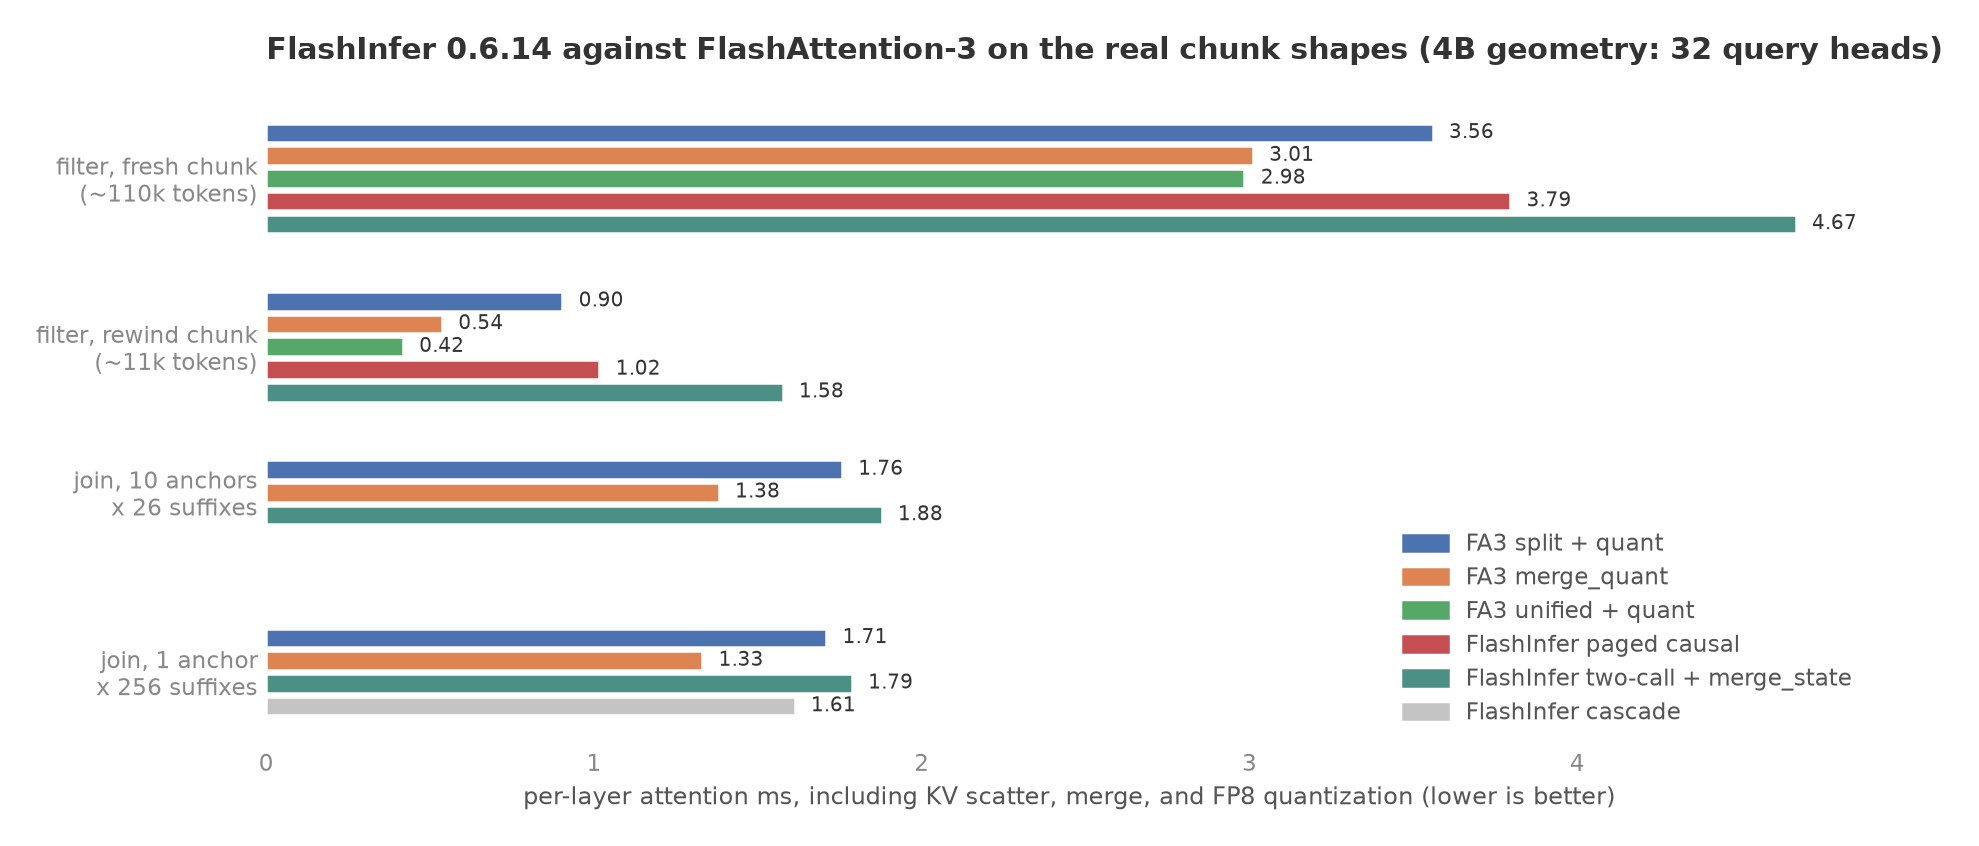
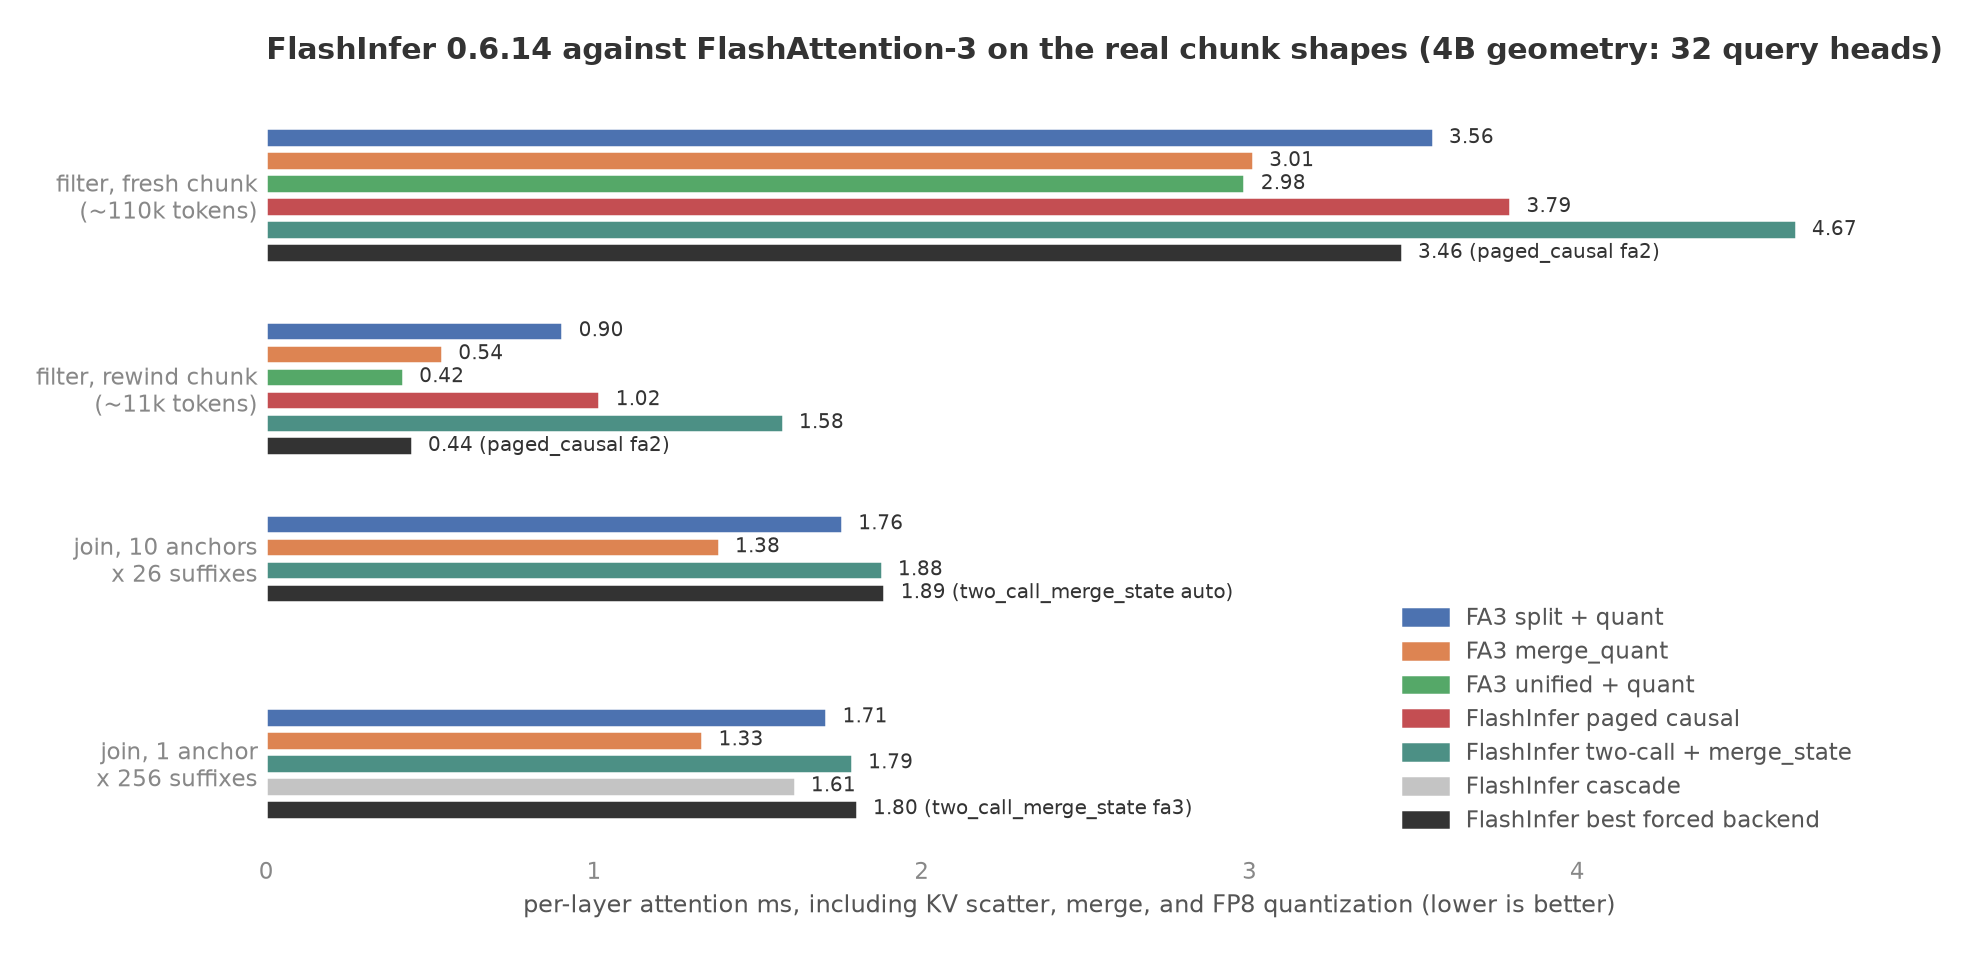
FlashInfer fairness pass, 4B geometry: best-tuned gaps 14% / 32%.
Measured against the prediction: forcing the fa2 backend cut the
filter gaps far more than predicted (fresh 27% -> 14%, rewind 2.4x
-> 14%) because FlashInfer's auto dispatch picks its FA3 template
where its FA2 template is faster on our filter chunks; joins moved
as predicted (hybrid isolates the 0.29 ms fusion share, their
kernel pair keeps an 11-16% gap). One hybrid entry lands within 5%
on fresh filter chunks but keeps our custom kernel and loses 44%
on rewind chunks, so the decision stands on tuned numbers. The
figure gains a best-forced-backend bar.

Claude-Session: https://claude.ai/code/session_01BnPpi2xQczZPNjqrAuqnJC

diff --git a/quail/reports/make_attention_plots.py b/quail/reports/make_attention_plots.py
@@ -245,6 +245,10 @@ def fig_accuracy(tag="", model_label="Qwen3 4B fp8"):
 
 def fig_flashinfer(tag="", geom_label="4B geometry: 32 query heads"):
     fi = load(f"flashinfer_bench{tag}.json")
+    try:
+        tuned = load(f"flashinfer_tuned{tag}.json")["shapes"]
+    except FileNotFoundError:
+        tuned = {}
     shapes = [
         ("filter_fresh", "filter, fresh chunk\n(~110k tokens)"),
         ("filter_cached", "filter, rewind chunk\n(~11k tokens)"),
@@ -260,14 +264,28 @@ def fig_flashinfer(tag="", geom_label="4B geometry: 32 query heads"):
         ("fi_two_call_merge_plus_quant",
          "FlashInfer two-call + merge_state", TEAL),
         ("fi_cascade_plus_quant", "FlashInfer cascade", GRAY),
+        ("fi_best_tuned", "FlashInfer best forced backend", DARK),
     ]
 
-    fig, ax = plt.subplots(figsize=(10.5, 4.6))
+    def best_tuned(skey):
+        # the fastest pure-FlashInfer variant across forced backends
+        row = tuned.get(skey)
+        if not row:
+            return None
+        pool = [(v, f"{grp} {be}")
+                for grp in ("paged_causal", "two_call_merge_state")
+                for be, v in row[grp].items()]
+        return min(pool) if pool else None
+
+    fig, ax = plt.subplots(figsize=(10.5, 5.2))
     bar_h = 0.15
     yticks, ylabels = [], []
     for si, (skey, slabel) in enumerate(shapes):
         row = fi["shapes"][skey]
         vals = {**row["fa3"], **row["flashinfer"]}
+        bt = best_tuned(skey)
+        if bt is not None:
+            vals["fi_best_tuned"] = bt[0]
         present = [(k, lab, c) for k, lab, c in variants if k in vals]
         base = si * (len(variants) + 1.4) * bar_h
         for vi, (k, lab, c) in enumerate(present):
@@ -275,7 +293,8 @@ def fig_flashinfer(tag="", geom_label="4B geometry: 32 query heads"):
             ypos = base + vi * bar_h
             ax.barh(ypos, v, height=bar_h * 0.82, color=c,
                     edgecolor="white")
-            ax.text(v + 0.05, ypos, f"{v:.2f}", va="center",
+            note = f" ({bt[1]})" if k == "fi_best_tuned" else ""
+            ax.text(v + 0.05, ypos, f"{v:.2f}{note}", va="center",
                     fontsize=8, color=DARK)
         yticks.append(base + (len(present) - 1) * bar_h / 2)
         ylabels.append(slabel)

diff --git a/quail/reports/2026-08-21-attention-paths.md b/quail/reports/2026-08-21-attention-paths.md
@@ -278,13 +278,74 @@ Per-layer milliseconds:
 | join 10 x 26-suffix groups | 1.38 (merge_quant) | - | 1.88 | not applicable |
 | join 1 anchor x 256 (fan-out) | 1.33 (merge_quant) | - | 1.79 | 1.61 |
 
-The issue's rule was: adopt off-the-shelf if within 5%. The closest
-FlashInfer result is 21% slower (cascade on the single-anchor
+The issue's rule was: adopt off-the-shelf if within 5%. At
+FlashInfer's default dispatch (`backend="auto"`, this table) the
+closest result was 21% slower (cascade on the single-anchor
 fan-out shape, and cascade cannot run multi-anchor chunks at all -
-its shared level must be shared by every query in the batch).
-FlashInfer's paged causal kernel is 27% slower than the single FA3
-call on the fresh filter chunk and 2.4x slower on the rewind chunk.
-Decision: stay on FA3 plus the one custom Triton merge kernel.
+its shared level must be shared by every query in the batch);
+paged causal was 27% slower than the single FA3 call on the fresh
+filter chunk and 2.4x slower on the rewind chunk. Because "auto"
+might not be FlashInfer's best configuration, a second cell gave
+it every backend it accepts (next subsection). Best case it closes
+to 14% on filters and 32% on joins. Decision: stay on FA3 plus the
+one custom Triton merge kernel.
+
+### The fairness pass: FlashInfer at its best settings
+
+Cell: `bench_tuned` in the same file
+(`results/flashinfer_tuned.json`). Two changes give FlashInfer its
+best shot: every backend string is forced in turn instead of
+`"auto"`, and a hybrid variant runs their two attention calls
+merged by our fused merge_quant kernel, so their kernel quality is
+measured separately from our fusion advantage. Prediction, stated
+before the run: forcing a backend moves the filter-shape gap
+little; the hybrid removes roughly the fusion share of the join
+gap but still trails; nothing reaches the 5% bar.
+
+What the wrappers accept on H100 in 0.6.14: `auto`, `fa2`, and
+`fa3` run; `cutlass` is rejected (the prefill module only accepts
+fa2/fa3) and `trtllm-gen` is rejected ("Unsupported architecture"
+for this runner, and not implemented for ragged inputs). The
+cascade wrapper takes no backend argument, so it could not be
+tuned further. Rejections are recorded per variant in the result
+file.
+
+Per-layer milliseconds, same-run FA3 reference (run-to-run wobble
+on these references is about 2%):
+
+| Shape | assigned FA3 path | best pure FlashInfer | hybrid: their calls + our merge kernel |
+|---|---|---|---|
+| filter, fresh chunk | 3.04 (unified) | 3.46 paged causal, fa2 (+14%) | 3.10, fa2 (+2.2%) |
+| filter, rewind chunk | 0.39 (unified) | 0.44 paged causal, fa2 (+14%) | 0.56, fa2 (+44%) |
+| join 10 x 26 | 1.38 (merge_quant) | 1.89 two-call, auto (+36%) | 1.60, auto (+15%) |
+| join fan-out | 1.37 (merge_quant) | 1.80 two-call, fa3 (+32%) | 1.51, auto (+11%) |
+
+Measured against the prediction:
+
+- "Forcing a backend moves the filter-shape gap little" was wrong.
+  `auto` selects FlashInfer's FA3 template on every shape, but on
+  our filter chunks its FA2 template is the faster one: forcing
+  fa2 cut the fresh-chunk gap from 27% to 14% and the rewind-chunk
+  gap from 2.4x to 14%. On the join shapes the opposite holds (fa2
+  is 39% slower than their FA3 template there), so no single
+  forced backend wins everywhere - the numbers above take the best
+  backend per shape.
+- The hybrid behaved as predicted: swapping their `merge_state`
+  plus separate quantization for our fused kernel removes 0.29 ms
+  of the 0.50 ms join gap; the remaining 11-16% is their kernel
+  pair against the two FA3 calls.
+- One entry does land within 5%: the hybrid on the fresh filter
+  chunk (+2.2% against unified). It does not change the decision,
+  for three reasons: it is still slower, not faster; it keeps our
+  custom Triton kernel and adds a FlashInfer dependency plus two
+  wrappers on top, so it sheds no code - and shedding code is what
+  the 5% rule is for; and the same variant is 44% behind unified
+  on the rewind chunk, which filters also run.
+
+Every pure FlashInfer variant - the ones that would actually
+replace our code - stays 14% or more behind the assigned path on
+every shape. The decision stands on the tuned numbers, not just
+the defaults.
 The three FlashInfer APIs tested:
 `BatchPrefillWithPagedKVCacheWrapper` (paged causal prefill, the
 FlashInfer equivalent of the unified path), `merge_state` (the
@@ -305,20 +366,21 @@ percent of each other"; the measured gap (35-45% on joins) came in
 above that band - FlashInfer's merge_state plus its separate paged
 call costs more than expected next to the fused Triton kernel.
 
-Reading the gap: part of the join-shape difference is fusion by
-construction - the FlashInfer stack is three launches (ragged
-causal call, paged call, merge_state) plus a separate quantization,
-where merge_quant does merge and quantization in one kernel. The
-rest is the prefill kernel under default dispatch: the wrappers
-were built with `backend="auto"` and the arena's 16-token pages,
-and no forced-backend or page-size sweep was run - the measured
-claim is "FlashInfer at its defaults on our chunk shapes", not its
-best achievable configuration. The shapes are also FA3's home
-regime (large bf16 prefill chunks), while FlashInfer's published
-edge is decode and shared-prefix batch decode, which is what
-cascade was designed for. The 2.4-3.0x gap on the small rewind
-chunk against 27-31% on the large fresh chunk is the signature of
-fixed per-run overhead dominating a launch-bound shape.
+Reading the gap, with the fairness pass measured: the join-shape
+difference splits into a fusion share and a kernel share, and the
+hybrid variant separates them directly - our fused merge+quant
+kernel accounts for 0.29 ms of the 0.50 ms, their attention kernel
+pair against the two FA3 calls for the rest. The filter-shape gap
+at defaults was mostly FlashInfer's own backend dispatch: `auto`
+picks its FA3 template everywhere, and on our filter chunks its
+FA2 template is the faster one. The first pass's guess that fixed
+per-run overhead explained the 2.4x rewind-chunk gap was wrong -
+forcing fa2 removed almost all of it (down to 14%). The shapes are
+FA3's home regime (large bf16 prefill chunks), while FlashInfer's
+published edge is decode and shared-prefix batch decode, which is
+what cascade was designed for. Page size was not swept: it is an
+arena property the engine sets, and both stacks run the same
+16-token pages.
 
 ## Qwen3 32B fp8
 
@@ -441,7 +503,8 @@ on both in-scope models.
 All runs on Modal app `quail-milestone1`, one H100, tee'd logs in
 `results/*.log`:
 
-- `flashinfer_probe.log`, `flashinfer_bench.log`
+- `flashinfer_probe.log`, `flashinfer_bench.log`,
+  `flashinfer_tuned.log`, `flashinfer_tuned_64h.log`
 - `attention_parity.log`, `attention_e2e_parity.log`
 - `join_attention_paths.log` (the three-shape sweep)
 - `accuracy_vs_stock.log`
